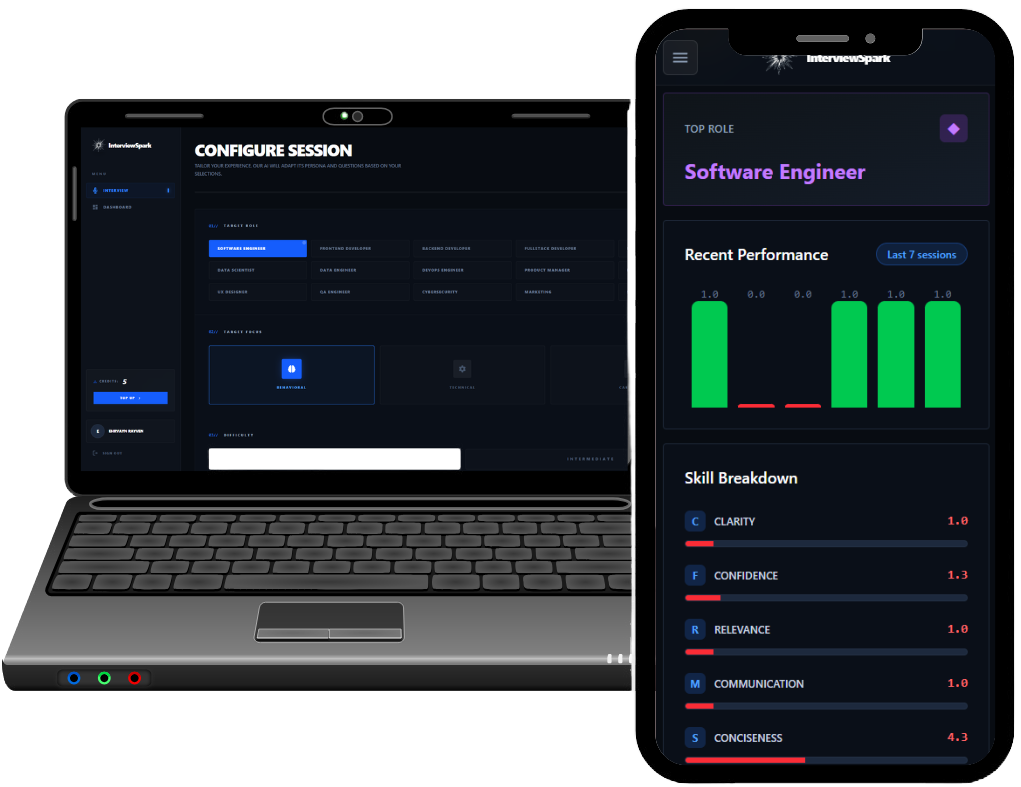
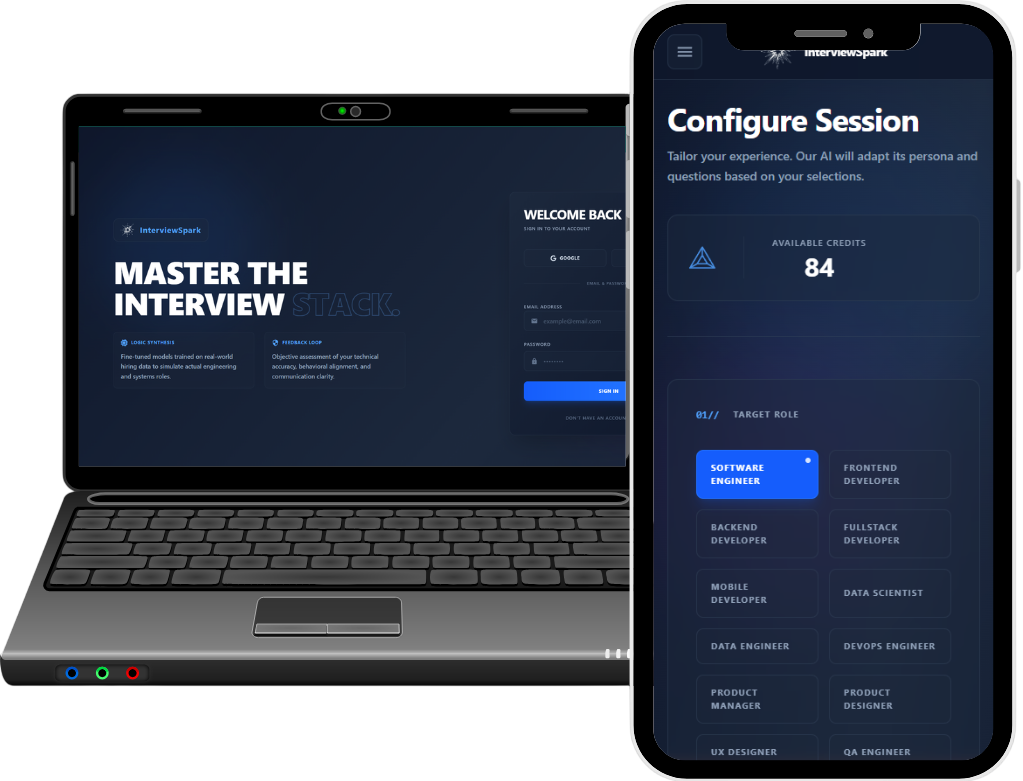
Refactor: change recent projects to featured projects

diff --git a/src/components/containers/FeaturedProjects.jsx b/src/components/containers/FeaturedProjects.jsx
@@ -6,25 +6,25 @@ import PortfolioImg from "../../assets/img/PortfolioImg.png";
 import InterviewSparkImg from "../../assets/img/InterviewSparkImg.png";
 import StartSmartImg from "../../assets/img/StartSmartImg.png";
 
-function RecentProjects() {
+function FeaturedProjects() {
   const { darkMode } = useDarkMode();
   const [hoveredIndex, setHoveredIndex] = useState(null);
 
   const projects = [
     {
-      name: "StartSmart",
+      name: "NavSumaro",
       description:
-        "StartSmart is an AI-powered business idea analyzer that breaks down any concept into a full viability report no sign-up needed. Just type your idea and instantly get a viability score, startup cost breakdown, launch timeline, market and risk assessment, and a legal compliance checklist. Plus, an AI chatbot that knows your idea and can answer any follow-up questions. Turn your idea into a roadmap in seconds.",
-      link: "startsmartgo.vercel.app",
-      code: "github.com/ehrvayn/StartSmart",
-      image: StartSmartImg,
+        "NavSumaro is the all-in-one student platform that replaces multiple fragmented campus tools. Access a verified academic Q&A forum, secure peer-to-peer marketplace for textbooks and supplies, and built-in collaboration tools all powered by institutional email verification for trust and safety. Connect with real classmates, buy and sell with confidence, and get academic help from verified students in your university community.",
+      link: "navsumaro.vercel.app",
+      code: "github.com/ehrvayn/navSumaro",
+      image: NavsumaroImg,
       tech: [
-        "Groq AI",
         "TypeScript",
         "React",
         "Tailwind",
         "Node.js",
         "ExpressJS",
+        "Postgres",
       ],
     },
     {
@@ -45,19 +45,19 @@ function RecentProjects() {
       ],
     },
     {
-      name: "NavSumaro",
+      name: "StartSmart",
       description:
-        "NavSumaro is the all-in-one student platform that replaces multiple fragmented campus tools. Access a verified academic Q&A forum, secure peer-to-peer marketplace for textbooks and supplies, and built-in collaboration tools all powered by institutional email verification for trust and safety. Connect with real classmates, buy and sell with confidence, and get academic help from verified students in your university community.",
-      link: "navsumaro.vercel.app",
-      code: "github.com/ehrvayn/navSumaro",
-      image: NavsumaroImg,
+        "StartSmart is an AI-powered business idea analyzer that breaks down any concept into a full viability report no sign-up needed. Just type your idea and instantly get a viability score, startup cost breakdown, launch timeline, market and risk assessment, and a legal compliance checklist. Plus, an AI chatbot that knows your idea and can answer any follow-up questions. Turn your idea into a roadmap in seconds.",
+      link: "startsmartgo.vercel.app",
+      code: "github.com/ehrvayn/StartSmart",
+      image: StartSmartImg,
       tech: [
+        "Groq AI",
         "TypeScript",
         "React",
         "Tailwind",
         "Node.js",
         "ExpressJS",
-        "Postgres",
       ],
     },
     {
@@ -68,22 +68,6 @@ function RecentProjects() {
       code: "github.com/ehrvayn/Portfolio",
       image: PortfolioImg,
       tech: ["Groq AI", "JavaScript", "React", "Tailwind"],
-    },
-    {
-      name: "QuickNotes",
-      description:
-        "QuickNotes is my first full-stack application a fast, secure note management platform. I built a clean REST API with robust authentication and a responsive user interface, focusing on performance and simplicity so users can capture and organize ideas without friction.",
-      link: "qcknotes.vercel.app",
-      code: "github.com/ehrvayn/QuickNotes",
-      image: QuickNotesImg,
-      tech: [
-        "JavaScript",
-        "React",
-        "BootStrap",
-        "Node.js",
-        "MySQL",
-        "ExpressJS",
-      ],
     },
   ];
 
@@ -103,7 +87,7 @@ function RecentProjects() {
           <h2
             className={`text-lg font-bold tracking-tight ${darkMode ? "text-white" : "text-black"}`}
           >
-            Recent Projects
+            Featured Projects
           </h2>
         </div>
         <p
@@ -214,4 +198,4 @@ function RecentProjects() {
   );
 }
 
-export default RecentProjects;
+export default FeaturedProjects;

diff --git a/src/components/Dividers/Container3.jsx b/src/components/Dividers/Container3.jsx
@@ -1,9 +1,9 @@
-import RecentProjects from "../containers/RecentProjects";
+import FeaturedProjects from "../containers/FeaturedProjects";
 
 function Container3() {
   return (
     <div className="w-full flex mr-[-15px] flex-col gap-5">
-      <RecentProjects />
+      <FeaturedProjects />
     </div>
   );
 }

diff --git a/src/components/Dividers/Container1.jsx b/src/components/Dividers/Container1.jsx
@@ -93,7 +93,7 @@ function Container1() {
                   darkMode ? "text-gray-400" : "text-gray-600"
                 }`}
               >
-                Aspiring Full Stack Web & Mobile Developer
+                Aspiring Full Stack Developer
               </p>
 
               <div
